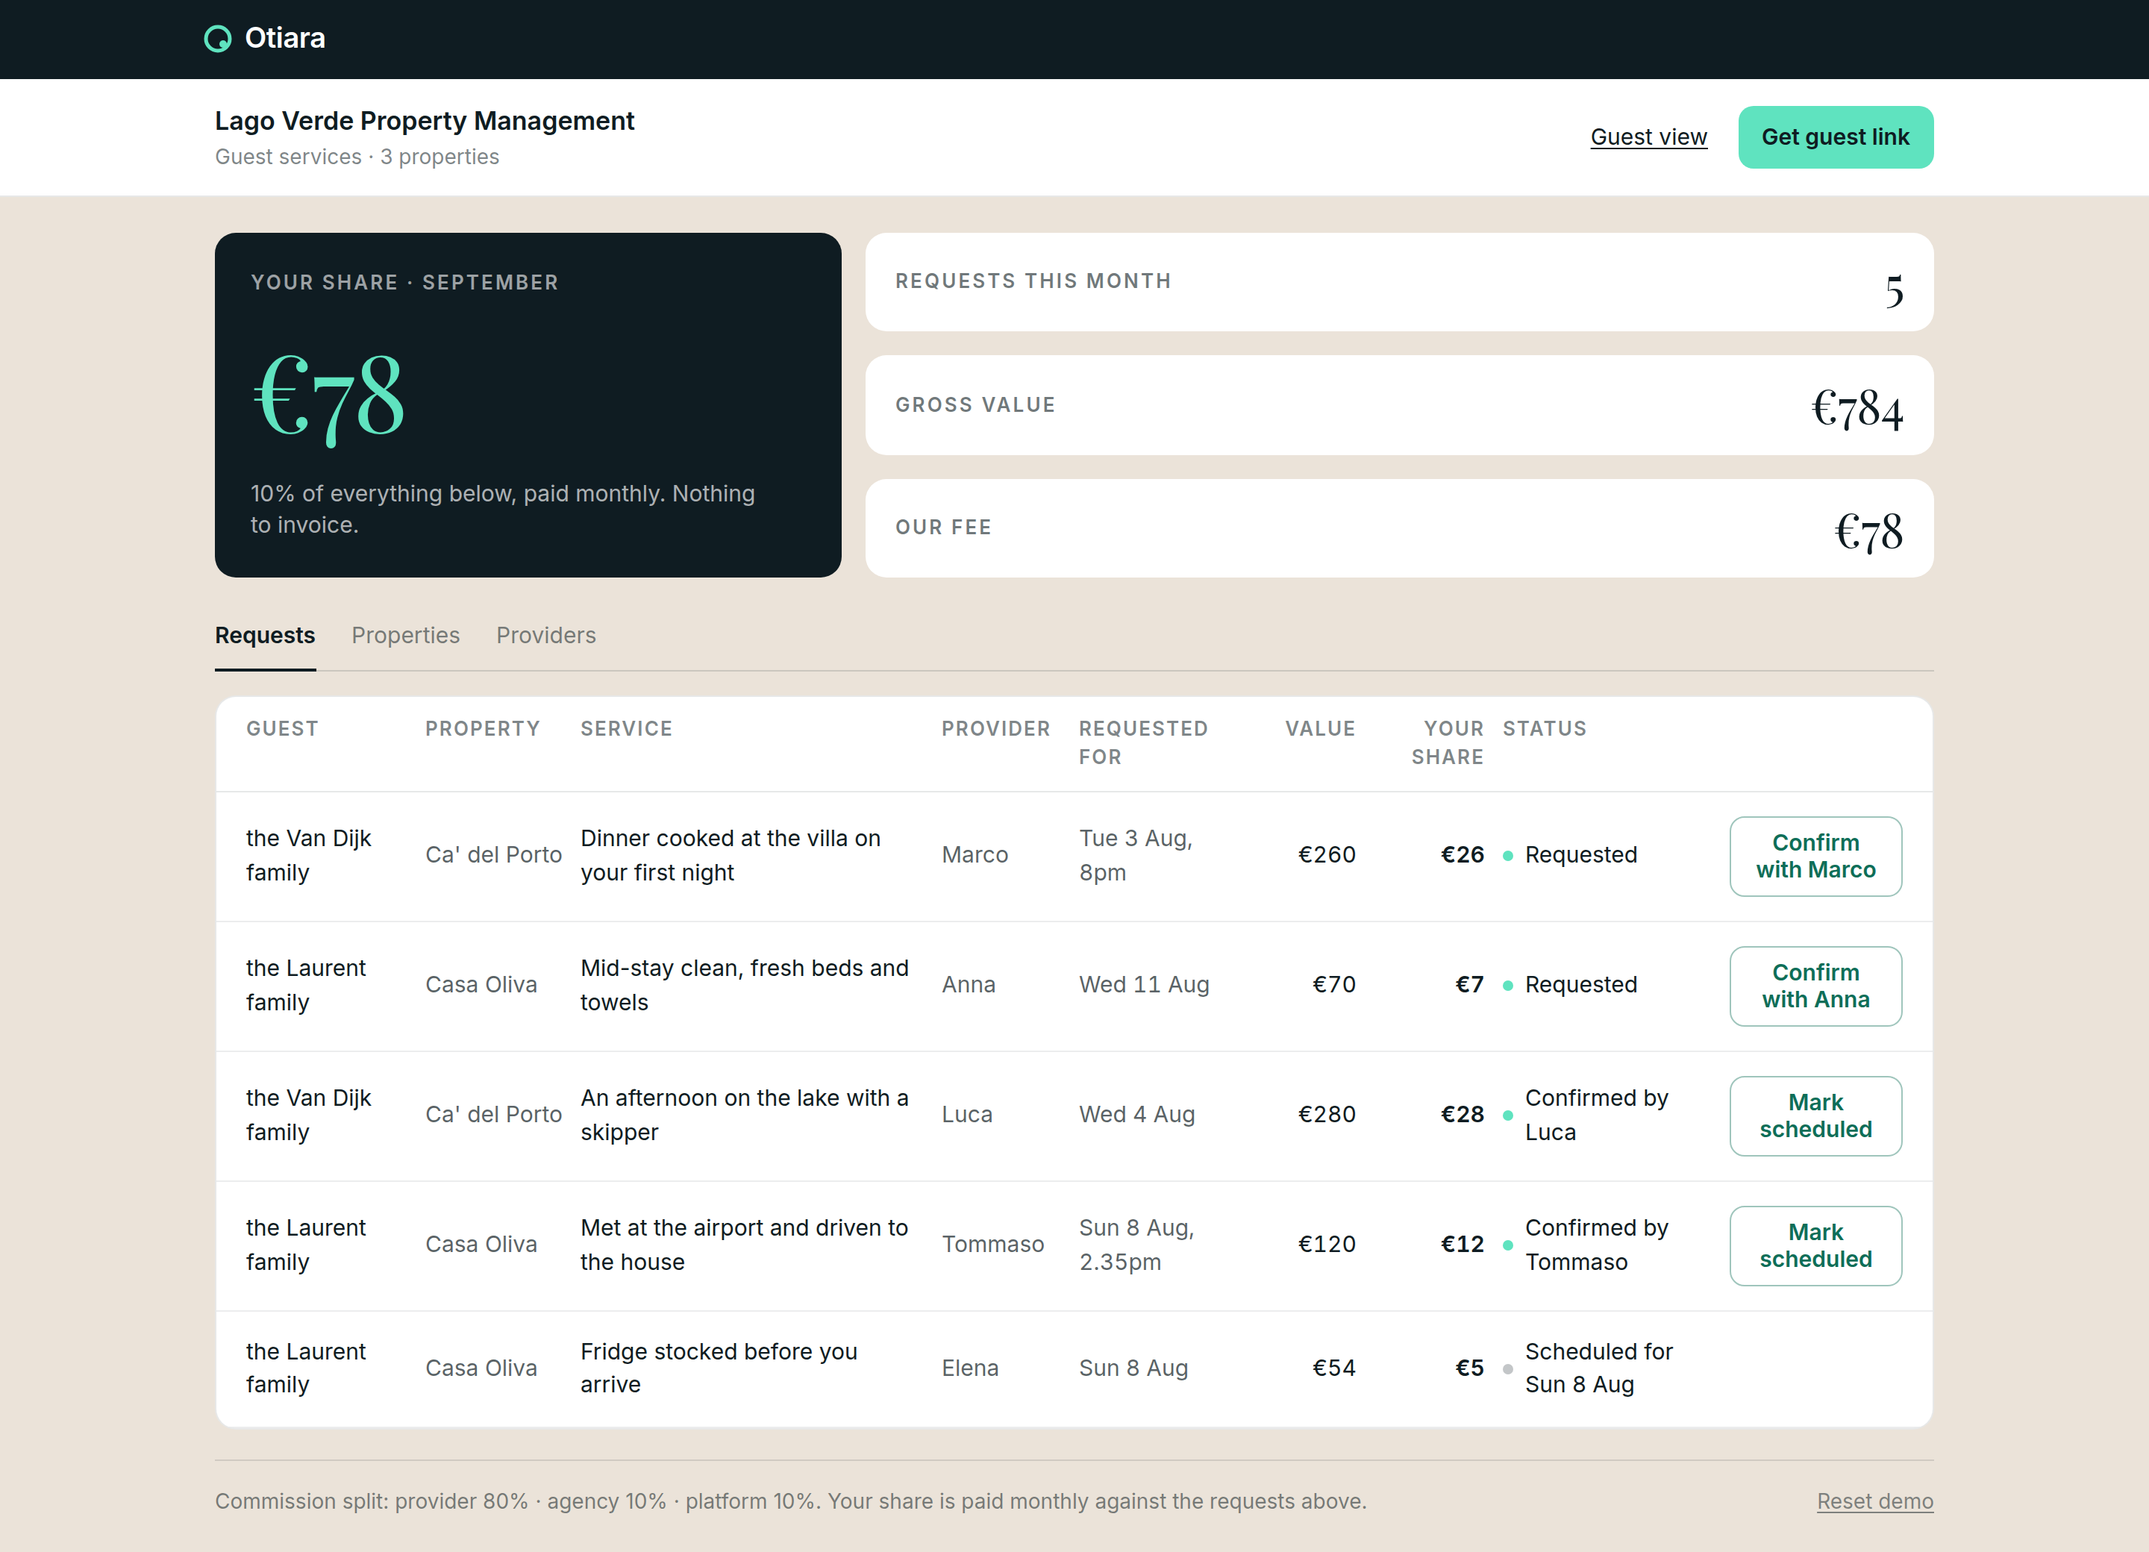
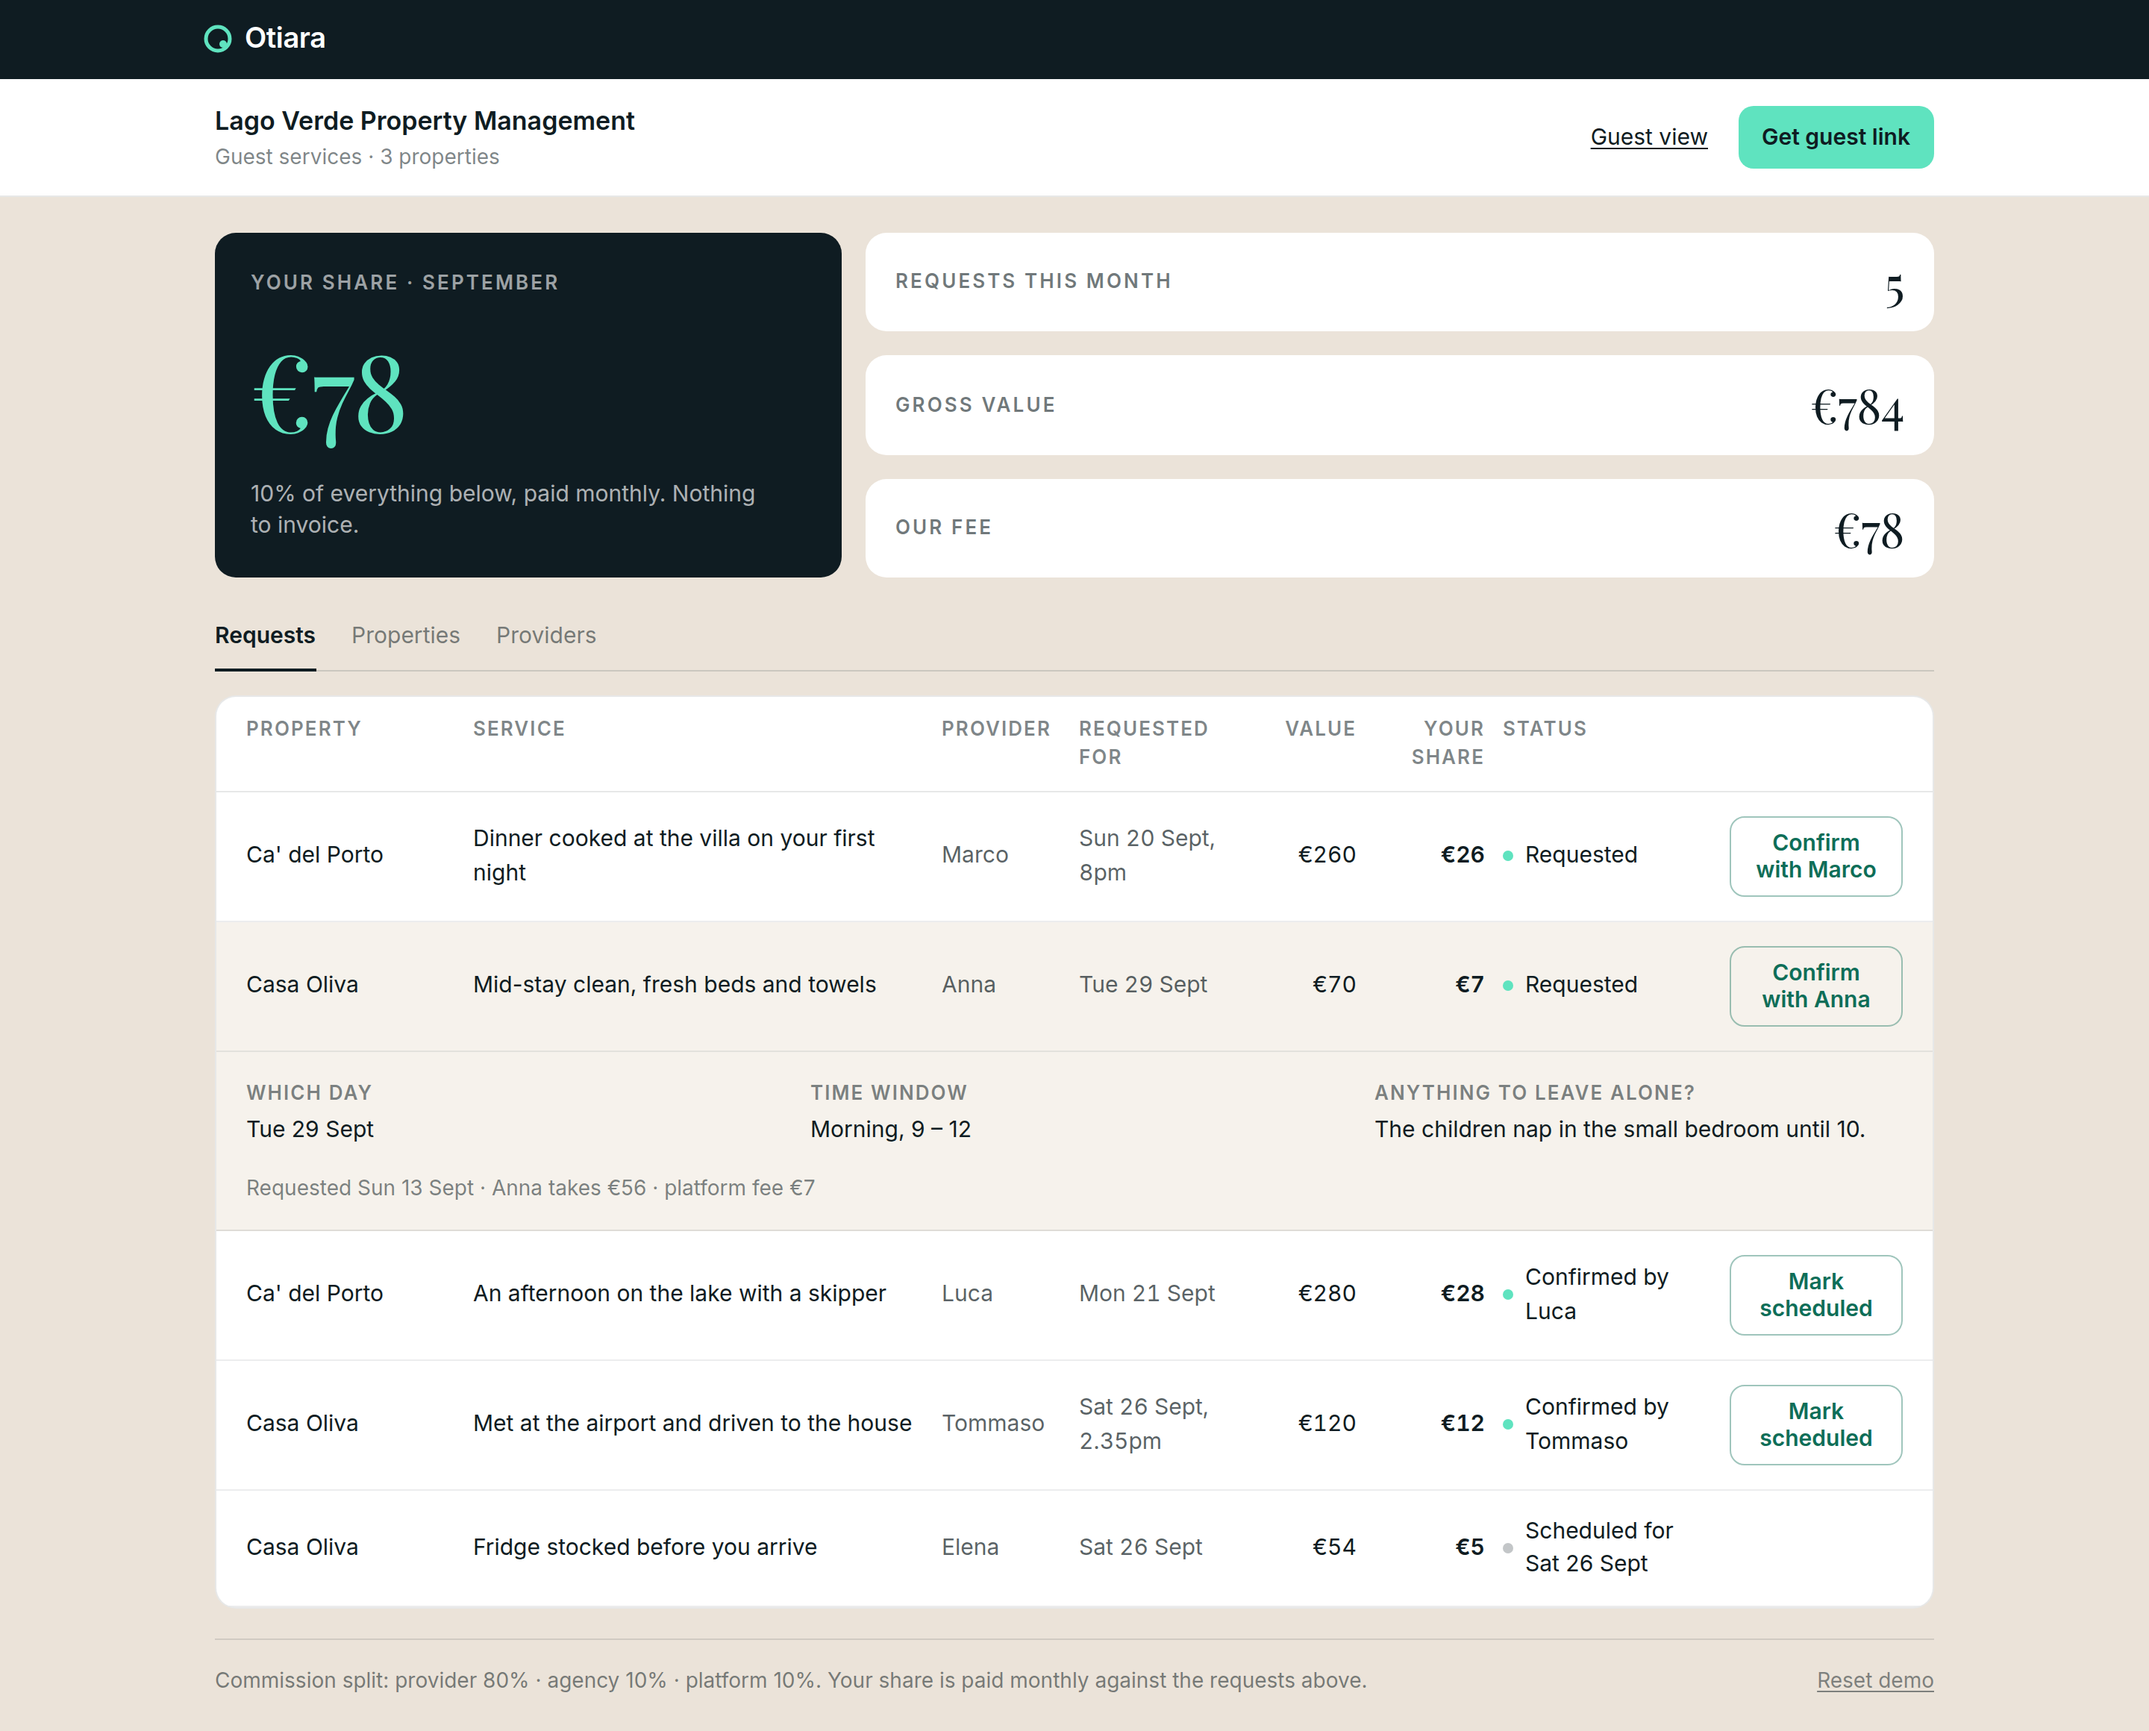
Drop the guest name — the booking gives us a property, not a person
A Stay is now only a token and a property, so nothing in the app can imply
knowledge it does not have.

- the portal greets the house: "Welcome to Villa Serena", with the property
  bar reduced to the village so the name is not said twice
- the console's request table loses its Guest column and widens Property and
  Service into the space
- the properties tab reports whether the guest link is live instead of naming
  who is in residence
- seeded requests now sit one to two weeks out from today rather than being
  pinned to invented stay dates

Claude-Session: https://claude.ai/code/session_01TW3243dmUATjAks6oaHHjP

diff --git a/src/routes/Agency.tsx b/src/routes/Agency.tsx
@@ -18,9 +18,9 @@ const tabs: { id: Tab; label: string }[] = [
   { id: 'providers', label: 'Providers' },
 ]
 
-/** Guest · Property · Service · Provider · Requested for · Value · Share · Status · action */
+/** Property · Service · Provider · Requested for · Value · Share · Status · action */
 const columns =
-  'grid-cols-[108px_92px_minmax(220px,1fr)_80px_112px_62px_74px_140px_116px] gap-3'
+  'grid-cols-[140px_minmax(240px,1fr)_80px_112px_62px_74px_140px_116px] gap-3'
 
 export default function Agency() {
   const [tab, setTab] = useState<Tab>('requests')
@@ -185,12 +185,11 @@ function RequestTable({ requests }: { requests: ServiceRequest[] }) {
 
   return (
     <div className="overflow-x-auto rounded-card border border-deep/10 bg-paper">
-      <div role="table" className="min-w-[1014px]">
+      <div role="table" className="min-w-[1048px]">
         <div
           role="row"
           className={`grid ${columns} border-b border-deep/10 px-5 py-3 text-[13px] font-semibold tracking-[0.08em] text-deep/55 uppercase`}
         >
-          <span role="columnheader">Guest</span>
           <span role="columnheader">Property</span>
           <span role="columnheader">Service</span>
           <span role="columnheader">Provider</span>
@@ -235,10 +234,7 @@ function RequestTable({ requests }: { requests: ServiceRequest[] }) {
                 }}
                 className={`grid ${columns} cursor-pointer items-center border-b border-deep/8 px-5 py-4 text-[15px] hover:bg-rowfill`}
               >
-                <span role="cell">{stay.guestName}</span>
-                <span role="cell" className="text-deep/70">
-                  {property.name}
-                </span>
+                <span role="cell">{property.name}</span>
                 <span role="cell">{service.title}</span>
                 <span role="cell" className="text-deep/70">
                   {provider.firstName}
@@ -344,9 +340,9 @@ function Properties() {
 
             <div>
               <p className="text-[13px] font-semibold tracking-[0.12em] text-deep/60 uppercase">
-                In residence
+                Guest link
               </p>
-              <p className="mt-1 text-[15px]">{stay ? stay.guestName : 'Empty this week'}</p>
+              <p className="mt-1 text-[15px]">{stay ? 'Live for this stay' : 'Not set up'}</p>
             </div>
 
             <div>

diff --git a/src/lib/seedRequests.ts b/src/lib/seedRequests.ts
@@ -13,7 +13,7 @@ export const seedRequests: ServiceRequest[] = [
     stayToken: oliva.token,
     serviceId: 'groceries',
     fields: {
-      date: oliva.arrival,
+      date: inDays(11),
       people: 3,
       needs: ['milk_bread', 'fruit', 'coffee'],
       notes: 'Something for a 9-year-old who only eats plain things. No nuts.',
@@ -28,7 +28,7 @@ export const seedRequests: ServiceRequest[] = [
     serviceId: 'transfer-in',
     fields: {
       pickup: 'vrn',
-      date: oliva.arrival,
+      date: inDays(11),
       time: '14:35',
       flight: 'AF 1214',
       car_seats: 1,
@@ -43,7 +43,7 @@ export const seedRequests: ServiceRequest[] = [
     stayToken: porto.token,
     serviceId: 'boat',
     fields: {
-      date: addDays(porto.arrival, 3),
+      date: inDays(6),
       length: 'half_pm',
       people: 4,
       notes: 'We would like to swim somewhere quiet rather than see towns.',
@@ -57,7 +57,7 @@ export const seedRequests: ServiceRequest[] = [
     stayToken: porto.token,
     serviceId: 'chef-dinner',
     fields: {
-      date: addDays(porto.arrival, 2),
+      date: inDays(5),
       time: '20:00',
       adults: 4,
       children: 0,
@@ -73,7 +73,7 @@ export const seedRequests: ServiceRequest[] = [
     stayToken: oliva.token,
     serviceId: 'mid-clean',
     fields: {
-      date: addDays(oliva.arrival, 3),
+      date: inDays(14),
       window: 'morning',
       notes: 'The children nap in the small bedroom until 10.',
     },
@@ -89,8 +89,9 @@ function daysAgo(n: number): string {
   return d.toISOString()
 }
 
-function addDays(iso: string, n: number): string {
-  const [y, m, day] = iso.split('-').map(Number)
-  const d = new Date(y, m - 1, day + n, 12)
+/** Seed requests sit a week or two out, so the demo never opens on a past date. */
+function inDays(n: number): string {
+  const d = new Date()
+  d.setDate(d.getDate() + n)
   return `${d.getFullYear()}-${String(d.getMonth() + 1).padStart(2, '0')}-${String(d.getDate()).padStart(2, '0')}`
 }

diff --git a/src/lib/seed.ts b/src/lib/seed.ts
@@ -1,20 +1,5 @@
 import type { Agency, Property, Provider, SeedData, Service, Stay } from './types'
 
-/**
- * The seed stays are written as real August dates so the copy reads right
- * ("4 – 11 August"). The year rolls forward once the season has passed, so the
- * demo never opens on a stay that already happened.
- */
-export function seasonYear(today = new Date()): number {
-  const y = today.getFullYear()
-  const seasonOver = today.getMonth() > 7 || (today.getMonth() === 7 && today.getDate() > 15)
-  return seasonOver ? y + 1 : y
-}
-
-const Y = seasonYear()
-const d = (month: number, day: number) =>
-  `${Y}-${String(month).padStart(2, '0')}-${String(day).padStart(2, '0')}`
-
 export const agency: Agency = {
   id: 'lago-verde',
   name: 'Lago Verde Property Management',
@@ -54,36 +39,9 @@ export const properties: Property[] = [
 ]
 
 export const stays: Stay[] = [
-  {
-    token: 'villa-serena-0811',
-    propertyId: 'villa-serena',
-    guestName: 'the Brandt family',
-    arrival: d(8, 4),
-    departure: d(8, 11),
-    adults: 2,
-    children: [{ age: 4 }, { age: 7 }],
-    language: 'de',
-  },
-  {
-    token: 'ca-del-porto-0108',
-    propertyId: 'ca-del-porto',
-    guestName: 'the Van Dijk family',
-    arrival: d(8, 1),
-    departure: d(8, 8),
-    adults: 4,
-    children: [],
-    language: 'nl',
-  },
-  {
-    token: 'casa-oliva-0815',
-    propertyId: 'casa-oliva',
-    guestName: 'the Laurent family',
-    arrival: d(8, 8),
-    departure: d(8, 15),
-    adults: 2,
-    children: [{ age: 9 }],
-    language: 'fr',
-  },
+  { token: 'villa-serena-0811', propertyId: 'villa-serena' },
+  { token: 'ca-del-porto-0108', propertyId: 'ca-del-porto' },
+  { token: 'casa-oliva-0815', propertyId: 'casa-oliva' },
 ]
 
 const portrait = (sex: 'women' | 'men', n: number) =>

diff --git a/src/routes/GuestPortal.tsx b/src/routes/GuestPortal.tsx
@@ -32,7 +32,7 @@ export default function GuestPortal({ token }: { token?: string }) {
       <main className="mx-auto max-w-[480px] px-4">
         <header className="pt-6">
           <h1 className="font-display text-[34px] leading-[1.1] tracking-[-0.01em]">
-            Welcome, <em>{stay.guestName}</em>
+            Welcome to <em>{property.name}</em>
           </h1>
           <div className="mt-4 border-t border-deep/10" />
           <p className="mt-4 text-[17px] leading-[1.5]">
@@ -107,7 +107,7 @@ function PropertyBar({ property }: { property: Property }) {
     <div className="border-b border-deep/10 bg-paper">
       <div className="mx-auto max-w-[480px] px-4 pt-3.5 pb-3">
         <p className="text-[12.5px] tracking-[0.14em] text-water uppercase">
-          {property.name} · {property.town}
+          {property.town}
         </p>
       </div>
     </div>
@@ -133,7 +133,7 @@ function ExpiredLink() {
       <div className="border-b border-deep/10 bg-paper">
         <div className="mx-auto max-w-[480px] px-4 pt-3.5 pb-3">
           <p className="text-[12.5px] tracking-[0.14em] text-water uppercase">
-            {data.properties[0].name} · {data.properties[0].town}
+            {data.properties[0].town}
           </p>
         </div>
       </div>

diff --git a/src/lib/types.ts b/src/lib/types.ts
@@ -26,15 +26,9 @@ export interface Property {
 }
 
 export interface Stay {
+  /** the opaque token in the guest link — the link is the credential */
   token: string
   propertyId: string
-  guestName: string
-  /** ISO date, YYYY-MM-DD */
-  arrival: string
-  departure: string
-  adults: number
-  children: { age: number }[]
-  language: string
 }
 
 export interface Provider {

diff --git a/README.md b/README.md
@@ -13,7 +13,7 @@ server. Everything is seeded data held in the browser.
 
 | Route | Who sees it | Job |
 | --- | --- | --- |
-| `/` | whoever you send the demo link to | the guest portal for the Brandt family's stay |
+| `/` | whoever you send the demo link to | the guest portal for Villa Serena |
 | `/s/:stayToken` | the guest, on their phone (390px) | browse and request services |
 | `/agency` | the agency, on a laptop (1440px) | requests arriving, revenue share |
 
@@ -26,9 +26,10 @@ the guest sees an icon, the job and the price, and everything is arranged and
 confirmed by the managing company. Names, faces and first-person copy exist only
 in the console, where the agency needs them.
 
-**The stay itself is not in the system.** No dates, no party size, nothing
-prefilled from a booking — the portal opens on a property and a name, and date
-fields are free from today onwards.
+**The stay itself is not in the system.** No dates, no party size, no guest
+name — a `Stay` is only a token and a property. The portal greets the house
+("Welcome to Villa Serena"), the console lists requests by property rather than
+by guest, and date fields run free from today onwards.
 
 Other stays: `/s/ca-del-porto-0108`, `/s/casa-oliva-0815`. Any token that does
 not resolve shows the expired-link screen rather than a 404.
@@ -67,8 +68,7 @@ survives moving between routes but not a reload.
 
 ## Running the demo
 
-1. Send the link. It opens on Villa Serena with the Brandt family's name and
-   dates already on it.
+1. Send the link. It opens on Villa Serena with every service the house offers.
 2. They tap **Fridge stocked before you arrive**, set the day and who is eating,
    and hit **Request this**. The card takes the requested state in place and the
    tray at the bottom counts up.
@@ -169,8 +169,9 @@ No shadows anywhere except the focus ring: depth is paper on the cream ground. M
   guarantee instead, and the provider block in the request sheet became a line
   about who arranges and checks the work.
 - **No stay details.** The design's date captions on the phase bands, the party
-  line under the headline, and every field prefilled from the booking are gone,
-  because that data is not in the system.
+  line under the headline, the guest's name in the greeting and in the console's
+  first column, and every field prefilled from the booking are gone, because
+  that data is not in the system.
 - **Prototype navigation** is a small demo line in the guest footer and a
   *Guest view* link in the console. The design has no nav chrome because each
   screen was drawn in isolation.
